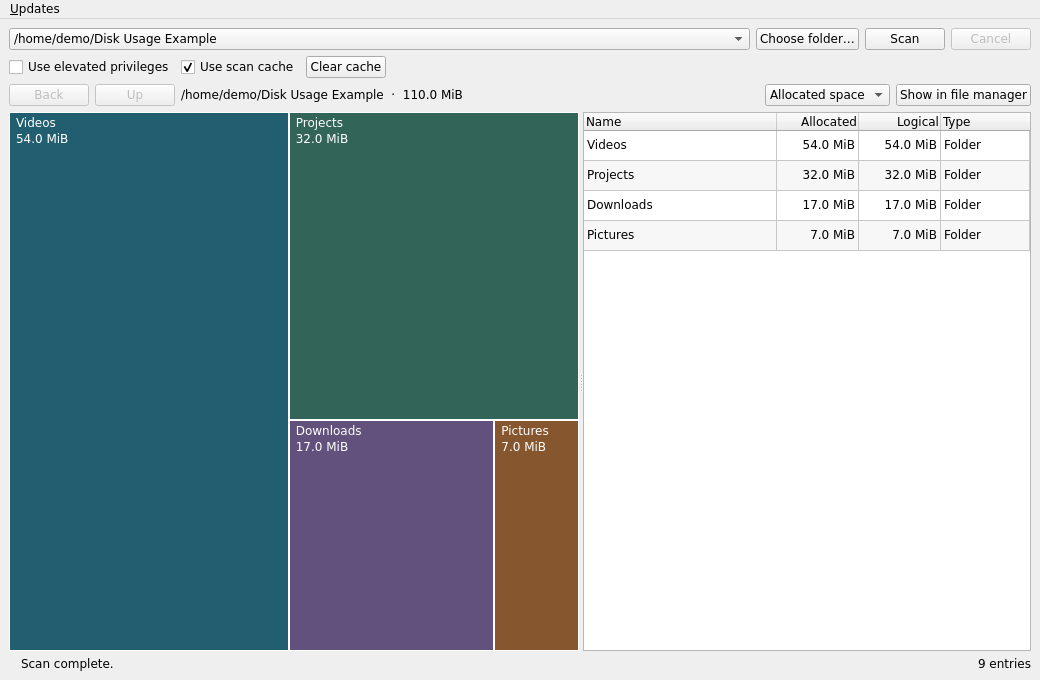
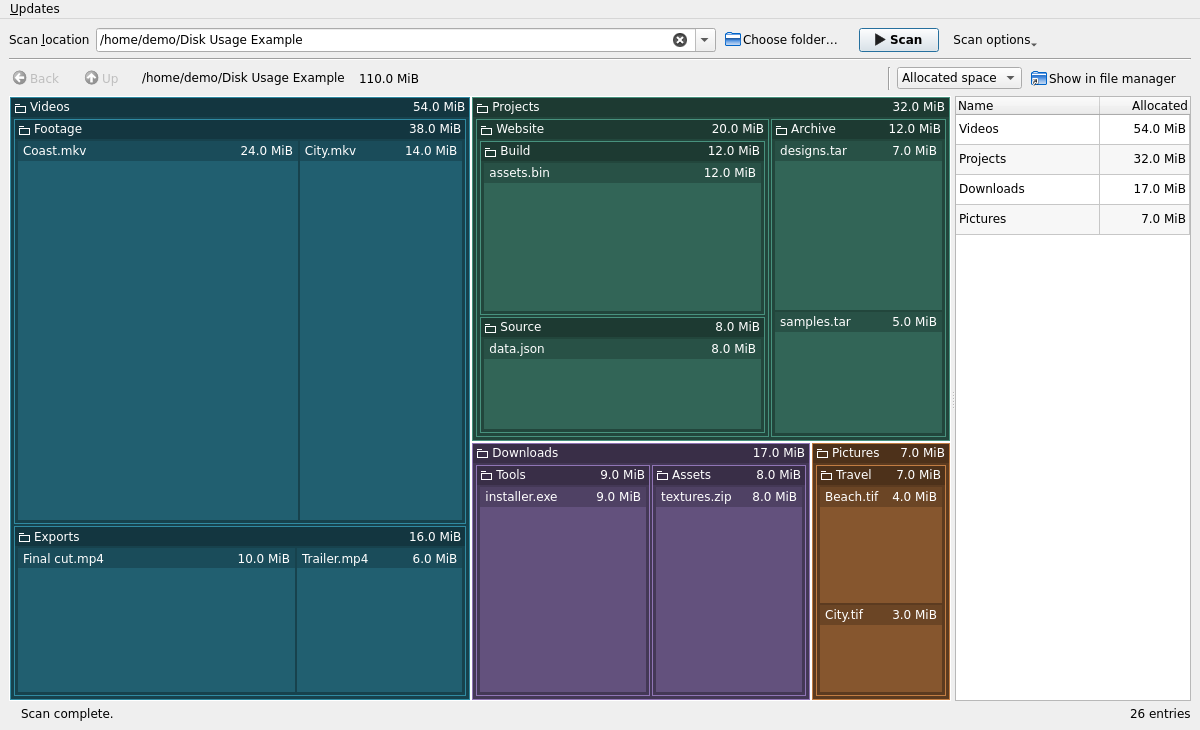
docs: illustrate nested disk usage and desktop file actions

diff --git a/README.md b/README.md
@@ -1,10 +1,14 @@
 # <img src="assets/disk-diver.svg" width="40" height="40" alt=""> Disk-Diver
 
-Disk-Diver shows how much space each folder and file uses on a local Windows or Linux drive. Choose a drive or a starting folder and select **Scan**. Each rectangle in the treemap is sized by the space the entry occupies. Click a rectangle to select the same entry in the list, double-click a folder to zoom in, or select **Show in file manager** to open its location.
+Disk-Diver shows how much space each folder and file uses on a local Windows or Linux drive. Choose a drive or enter a folder path and select **Scan**. Larger rectangles represent larger entries. Inside a folder, the treemap shows which subfolders and files account for its size.
 
-![Disk-Diver showing four folders. The Videos folder uses 54 of 110 MiB and occupies the largest rectangle.](docs/desktop.png)
+![Nested treemap and folder table. Videos uses 54 of 110 MiB, including 38 MiB of footage and 16 MiB of exports.](docs/desktop.png)
 
-By default, scans run with your user permissions. Select **Use elevated privileges** to authorize a separate process to read the drive. The main window and file manager keep their normal permissions. Disk-Diver shows which entries it skipped or could not read. You can cancel a scan while it is running.
+- Double-click a folder's title bar to zoom in. Hover over a tile to see its path and size. **Back** returns to the previous view, and **Up** opens the parent folder.
+- The treemap starts with about 80% of the results area. Drag the divider to give the table more room. A narrow table shows names and the selected size measure. A wider table can also show the other measure and the entry type.
+- Right-click a tile or table row to show it in the file manager, copy its full path, rename it, or move it to the **Recycle Bin** on Windows or **Trash** on Linux. Disk-Diver asks for confirmation before moving an entry and rescans after a change.
+
+Scans use your account's permissions by default. Open **Scan options** and select **Use elevated privileges** to authorize a separate process to read protected folders. File actions use the desktop app's permissions. Disk-Diver reports skipped entries and read errors. Select **Cancel** to stop a running scan.
 
 ## Install
 
